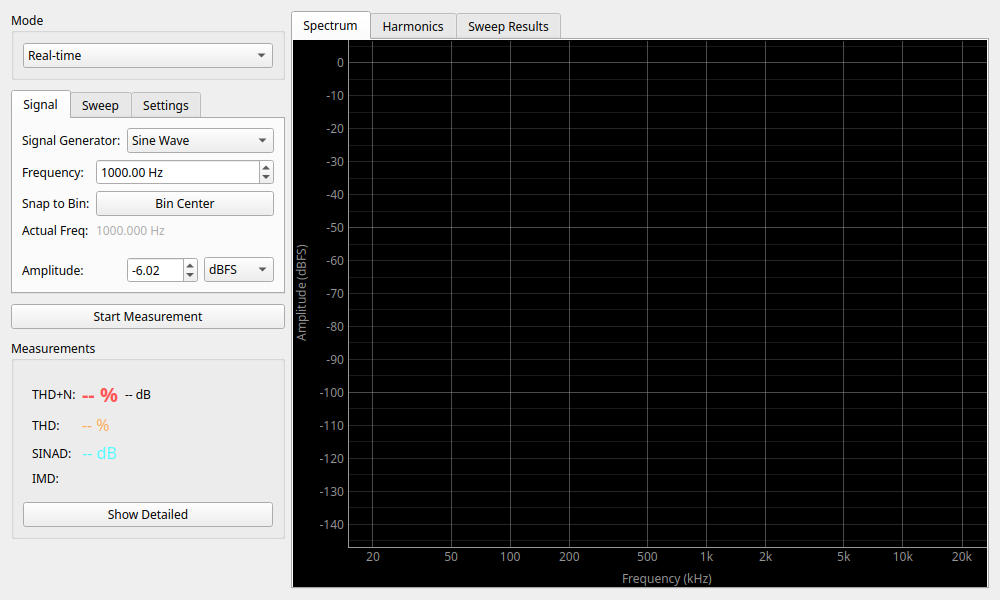
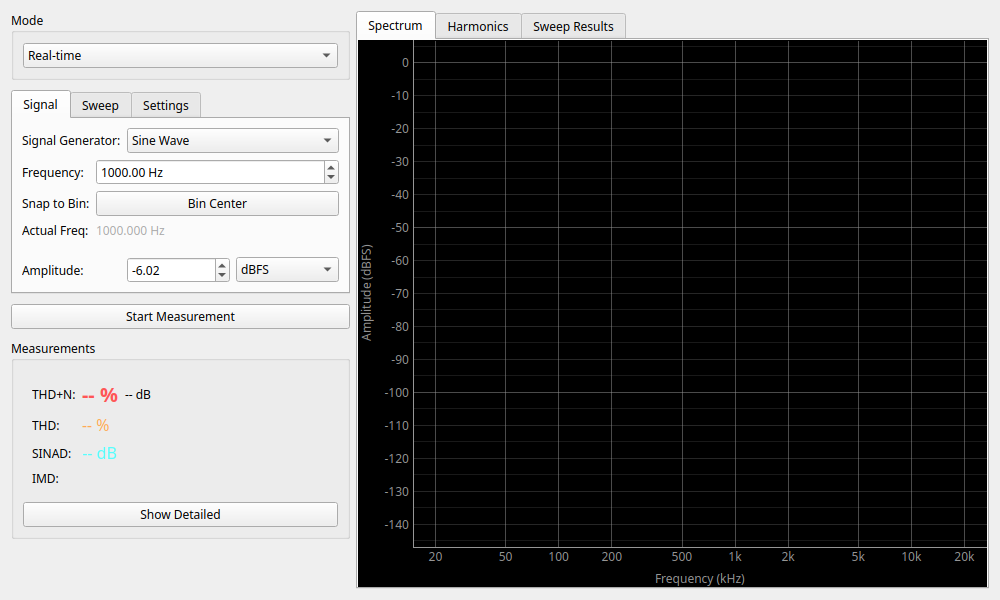
Release v0.6.2

diff --git a/src/core/version.py b/src/core/version.py
@@ -1,1 +1,1 @@
-__version__ = "0.6.1"
+__version__ = "0.6.2"

diff --git a/CHANGELOG.md b/CHANGELOG.md
@@ -1,5 +1,28 @@
 # Changelog
 
+## [v0.6.2] - 2026-04-10
+
+### Added
+
+* **Audio**: Added Spatial Binaural Mixer module with multi-track rendering support.
+* **Analyzer**: Added RIAA EQ curve matcher to Network Analyzer.
+* **Analyzer**: Added AES17 filter design and J-Test signal generation for THD+N analysis.
+* **Analyzer**: Implemented True Peak (ISKb) detection with 4x oversampling in LUFS meter.
+
+### Changed
+
+* **Perf**: Vectorized LUFS array calculation and pre-calculated A-weighting gain squared for performance improvement.
+* **Perf**: Optimized Linearity Analyzer buffer allocation, ImpedanceSweepWorker polling sleep to event-driven wait, and calibration samples extraction in timecode_monitor.
+* **Perf**: Optimized QComboBox data lookup in SignalGeneratorWidget.
+* **Refactor**: Extracted setup logic from main_gui.py, cleaned up whitespace, and refactored spatial mixer spinboxes.
+* **I18n**: Added missing localization strings for audio analysis and measurement features across all languages.
+* **Docs**: Enhanced Spectrum Analyzer, calibration explanations, index, quickstart, and Spatial Binaural Mixer documentation.
+
+### Fixed
+
+* **Core**: Removed unused imports across several modules.
+* **Tests**: Cleaned up the test suite, fixed merge conflicts, fixed test pollution, and added error handling tests for platform-specific CPU name resolution.
+
 ## [v0.6.1] - 2026-04-03
 
 ### Added
